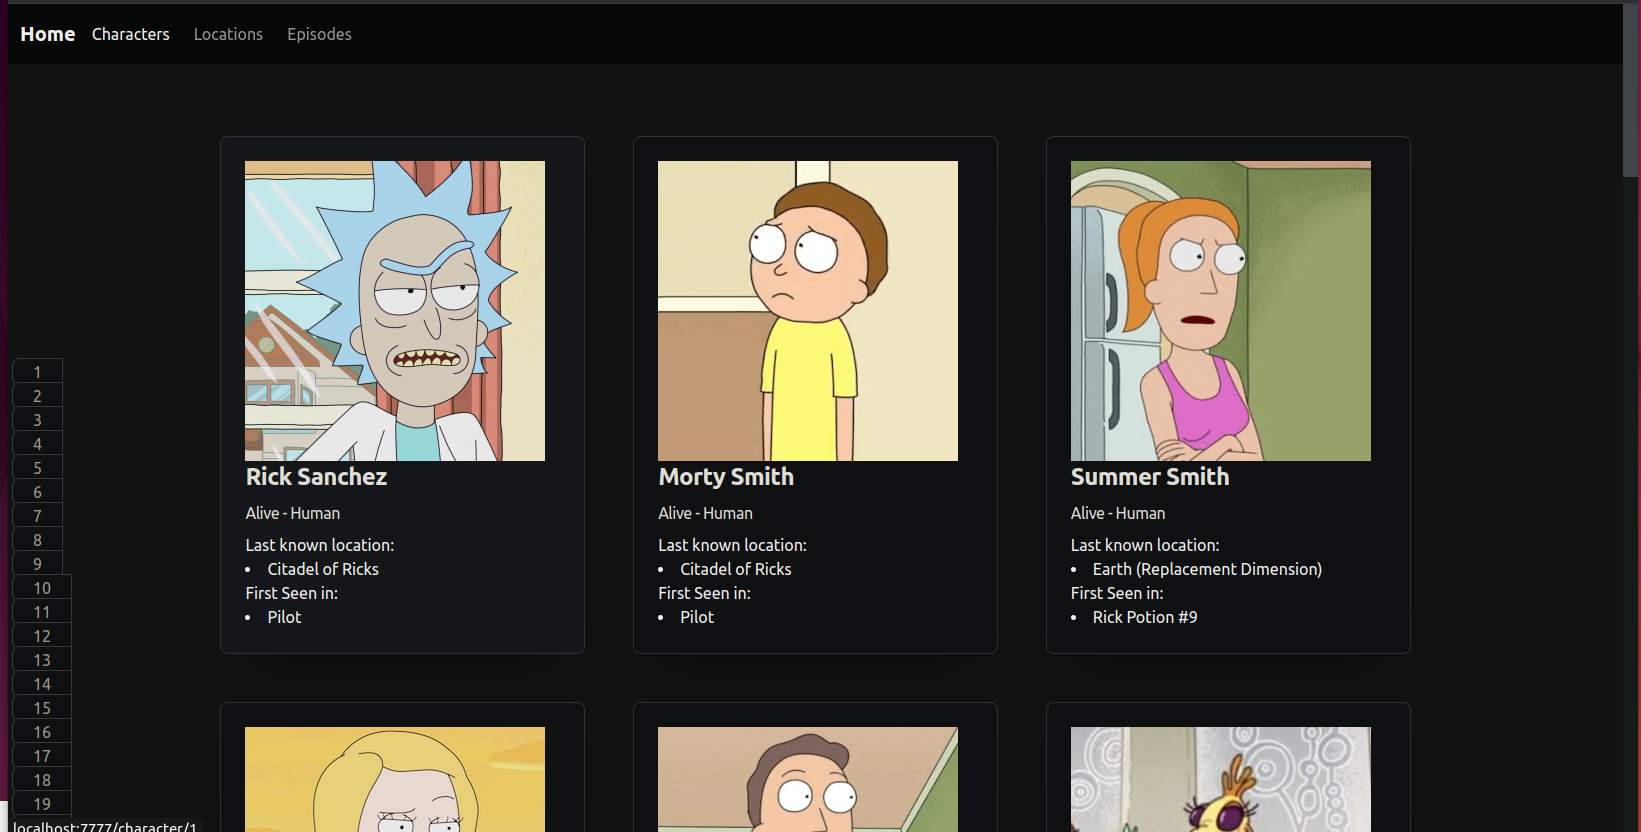
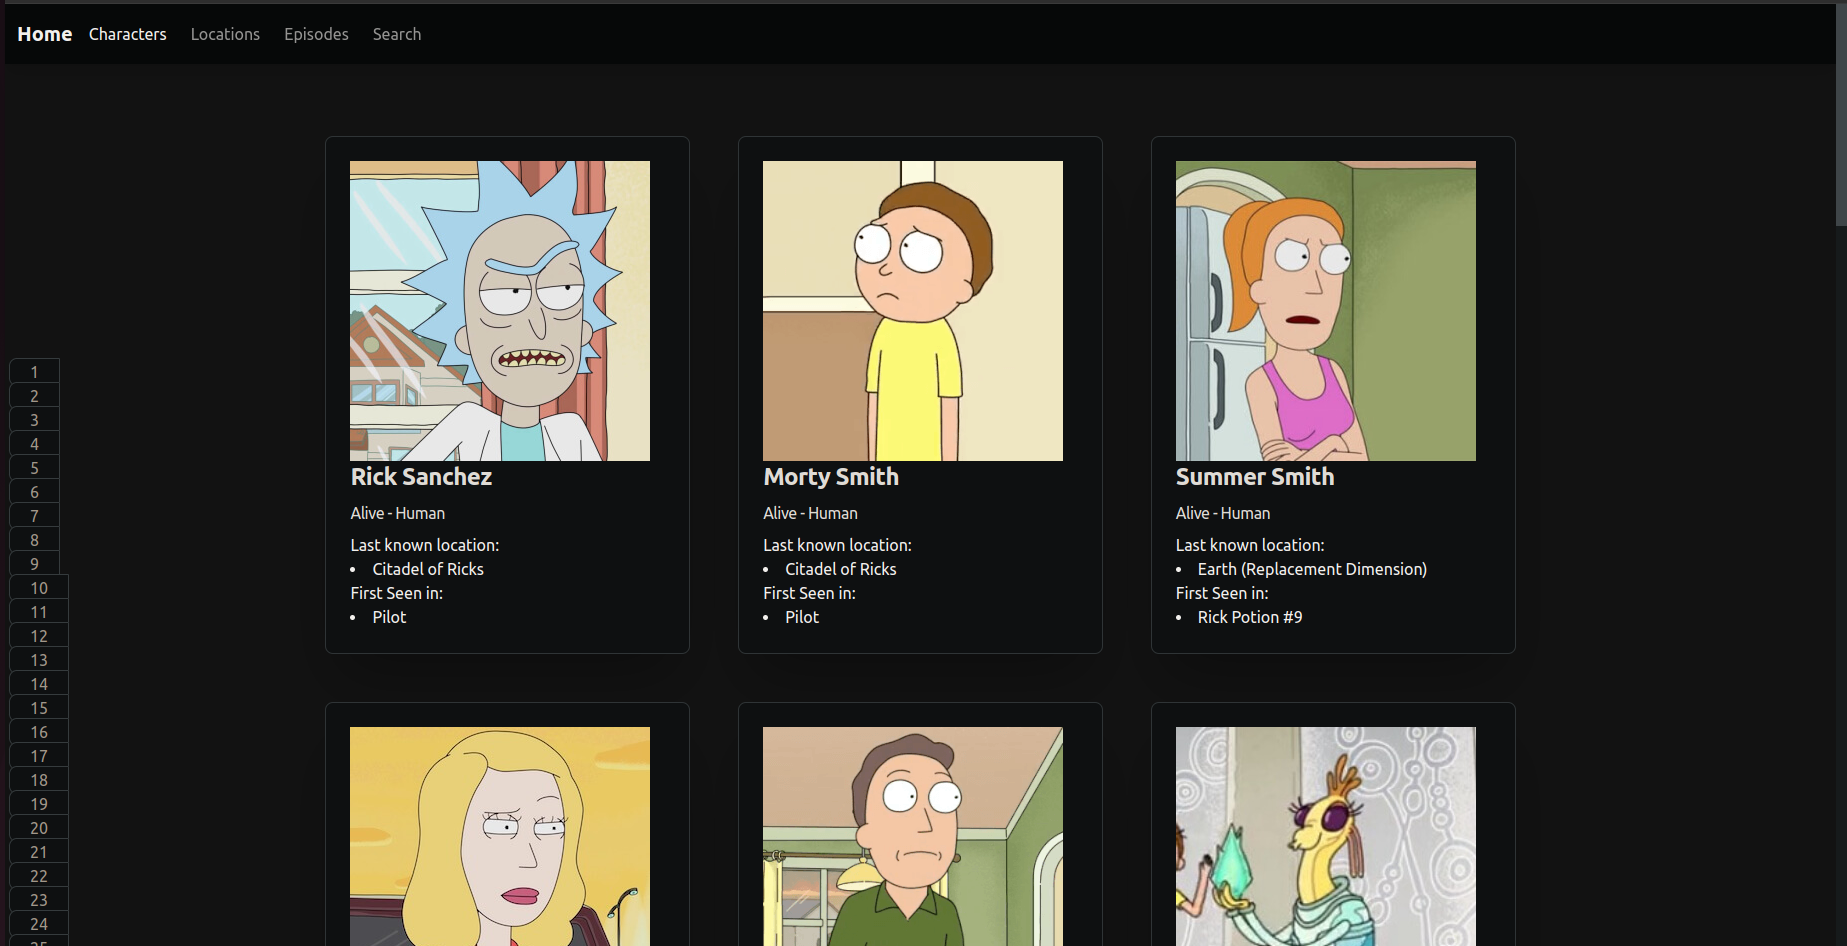
Update

diff --git a/the-rick-and-morty-main/README.md b/the-rick-and-morty-main/README.md
@@ -1,6 +1,7 @@
 <img src="prev0.png">
 <img src="prev1.png">
 <img src="prev2.png">
+<img src="prev3.png">
 
 
 This program works with api.
